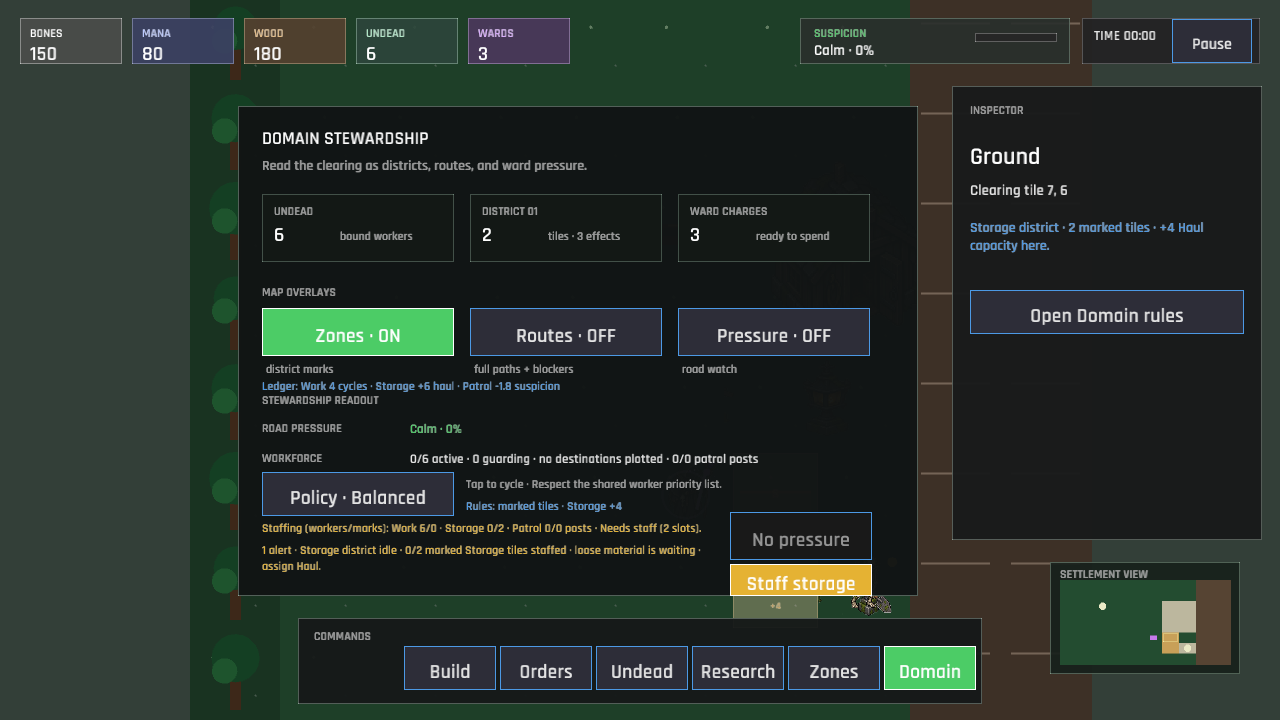
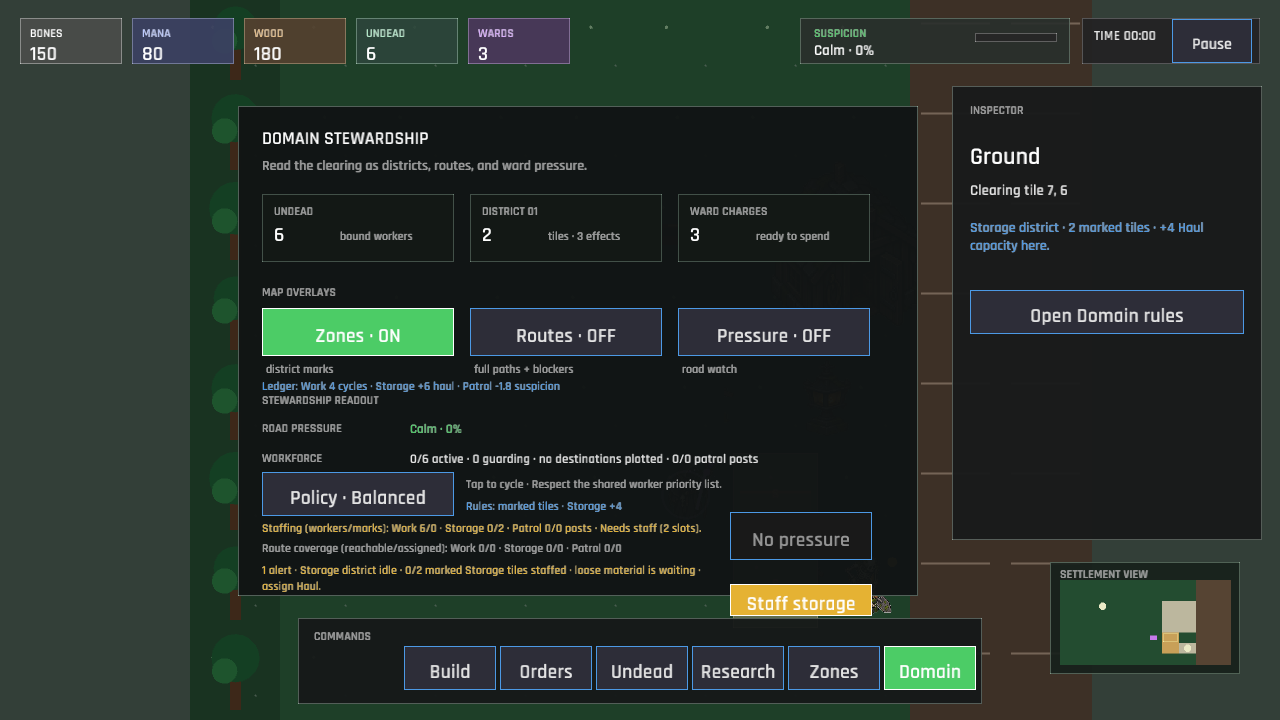
The wardens count the roads they can actually walk (route-aware service coverage)
The Domain readout now matches assigned workers to marked district slots through real route checks, using one worker per reachable slot and preserving role-specific Work demand. Desktop and compact panels expose reachable-versus-assigned coverage beside staffing pressure, while the GDD and visual plan record the deeper district system. Added route-blocked coverage tests and refreshed verification captures.

Changed region(s): [[0.1875, 0.7333, 0.6875, 0.8556]]

diff --git a/src/engine/districts.rs b/src/engine/districts.rs
@@ -1,6 +1,7 @@
 //! Domain Stewardship rules applied by marked district tiles.
 
 use crate::data::DistrictRules;
+use crate::engine::navigation;
 use crate::state::{
     DistrictActivity, DistrictActivityKind, GameSession, JobKind, PlotStatus, Technology, ZoneKind,
 };
@@ -109,6 +110,75 @@ pub fn compact_operations_summary(session: &GameSession) -> String {
         operator_count(session, ZoneKind::Patrol),
         marked_tile_count(session, ZoneKind::Patrol),
         suffix
+    )
+}
+
+#[derive(Debug, Clone, Copy, PartialEq, Eq)]
+pub struct DistrictCoverage {
+    pub marked: usize,
+    pub assigned: usize,
+    pub reachable: usize,
+}
+
+pub fn service_coverage(session: &GameSession, kind: ZoneKind) -> DistrictCoverage {
+    let targets = district_tiles(session, kind);
+    if targets.is_empty() {
+        return DistrictCoverage {
+            marked: 0,
+            assigned: 0,
+            reachable: 0,
+        };
+    }
+    let mut matched_workers = vec![None; targets.len()];
+    for worker_index in 0..session.workforce.workers.len() {
+        let mut visited = vec![false; targets.len()];
+        let _ = match_reachable_worker(
+            session,
+            kind,
+            worker_index,
+            &targets,
+            &mut matched_workers,
+            &mut visited,
+        );
+    }
+    let reachable = matched_workers
+        .iter()
+        .filter(|worker| worker.is_some())
+        .count();
+    DistrictCoverage {
+        marked: targets.len(),
+        assigned: operator_count(session, kind),
+        reachable,
+    }
+}
+
+pub fn coverage_summary(session: &GameSession) -> String {
+    let work = service_coverage(session, ZoneKind::Work);
+    let storage = service_coverage(session, ZoneKind::Storage);
+    let patrol = service_coverage(session, ZoneKind::Patrol);
+    format!(
+        "Route coverage (reachable/assigned): Work {}/{} · Storage {}/{} · Patrol {}/{}",
+        work.reachable,
+        work.assigned,
+        storage.reachable,
+        storage.assigned,
+        patrol.reachable,
+        patrol.assigned
+    )
+}
+
+pub fn compact_coverage_summary(session: &GameSession) -> String {
+    let work = service_coverage(session, ZoneKind::Work);
+    let storage = service_coverage(session, ZoneKind::Storage);
+    let patrol = service_coverage(session, ZoneKind::Patrol);
+    format!(
+        "Routes: W {}/{} · S {}/{} · P {}/{}",
+        work.reachable,
+        work.assigned,
+        storage.reachable,
+        storage.assigned,
+        patrol.reachable,
+        patrol.assigned
     )
 }
 
@@ -437,6 +507,73 @@ fn assigned_operator_count(session: &GameSession, kind: ZoneKind) -> usize {
             ZoneKind::Patrol => worker.assignment == JobKind::Guard,
         })
         .count()
+}
+
+fn district_tiles(session: &GameSession, kind: ZoneKind) -> Vec<TilePos> {
+    session
+        .world
+        .zones
+        .iter()
+        .filter(|zone| zone.kind == kind)
+        .flat_map(|zone| zone.tiles.iter().copied())
+        .collect()
+}
+
+fn match_reachable_worker(
+    session: &GameSession,
+    kind: ZoneKind,
+    worker_index: usize,
+    targets: &[TilePos],
+    matched_workers: &mut [Option<usize>],
+    visited: &mut [bool],
+) -> bool {
+    let worker = &session.workforce.workers[worker_index];
+    for (target_index, target) in targets.iter().enumerate() {
+        if visited[target_index]
+            || !worker_serves_tile(session, kind, worker.assignment, *target)
+            || navigation::plan_route(session, worker.position, *target).is_err()
+        {
+            continue;
+        }
+        visited[target_index] = true;
+        if matched_workers[target_index].is_none()
+            || match_reachable_worker(
+                session,
+                kind,
+                matched_workers[target_index].expect("checked matched worker"),
+                targets,
+                matched_workers,
+                visited,
+            )
+        {
+            matched_workers[target_index] = Some(worker_index);
+            return true;
+        }
+    }
+    false
+}
+
+fn worker_serves_tile(session: &GameSession, kind: ZoneKind, job: JobKind, tile: TilePos) -> bool {
+    match kind {
+        ZoneKind::Work => work_role_for_tile(session, tile)
+            .map_or(matches!(job, JobKind::Dig | JobKind::Wood), |required| {
+                job == required
+            }),
+        ZoneKind::Storage => job == JobKind::Haul,
+        ZoneKind::Patrol => job == JobKind::Guard,
+    }
+}
+
+fn work_role_for_tile(session: &GameSession, tile: TilePos) -> Option<JobKind> {
+    if session.world.plots.iter().any(|plot| {
+        plot.position == tile && matches!(plot.status, PlotStatus::Ready | PlotStatus::Digging)
+    }) {
+        Some(JobKind::Dig)
+    } else if session.world.forest_tiles.contains(&tile) {
+        Some(JobKind::Wood)
+    } else {
+        None
+    }
 }
 
 fn job_operator_count(session: &GameSession, job: JobKind) -> usize {

diff --git a/src/ui/responsive/panels.rs b/src/ui/responsive/panels.rs
@@ -398,6 +398,21 @@ fn draw_compact_domain_panel(
             dark::TEXT_DIM
         },
     );
+    let coverage_summary = if sheet.w < 520.0 {
+        districts::compact_coverage_summary(ctx.session)
+    } else {
+        districts::coverage_summary(ctx.session)
+    };
+    draw_text_block(
+        &coverage_summary,
+        sheet.x + 16.0,
+        sheet.y + 212.0,
+        sheet.w - 32.0,
+        18.0,
+        11.0,
+        0.0,
+        dark::TEXT_DIM,
+    );
     let (clear_routes, total_routes) = super::super::world_feedback::route_counts(ctx);
     let patrol_coverage = crate::engine::jobs::patrol_coverage(ctx.session);
     let route_summary = if total_routes == 0 {
@@ -414,7 +429,7 @@ fn draw_compact_domain_panel(
     draw_text_block(
         &route_summary,
         sheet.x + 16.0,
-        sheet.y + 212.0,
+        sheet.y + 232.0,
         sheet.w - 32.0,
         16.0,
         11.0,
@@ -428,7 +443,7 @@ fn draw_compact_domain_panel(
         },
     );
     if virtual_button(
-        Rect::new(sheet.x + 16.0, sheet.y + 232.0, sheet.w - 32.0, 44.0),
+        Rect::new(sheet.x + 16.0, sheet.y + 252.0, sheet.w - 32.0, 44.0),
         super::compact_policy_label(ctx.session.stewardship_policy),
         ctx.session.phase == GamePhase::Playing,
         ButtonTone::Secondary,
@@ -437,7 +452,7 @@ fn draw_compact_domain_panel(
         actions.push(UiAction::CycleStewardshipPolicy);
     }
     if virtual_button(
-        Rect::new(sheet.x + 16.0, sheet.y + 280.0, sheet.w - 32.0, 44.0),
+        Rect::new(sheet.x + 16.0, sheet.y + 300.0, sheet.w - 32.0, 44.0),
         "Quiet ward · -8 suspicion",
         ctx.session.phase == GamePhase::Playing
             && ctx.session.economy.ward_charges > 0
@@ -464,7 +479,7 @@ fn draw_compact_domain_panel(
         };
         let action = compact_advisory_action(ctx, target);
         if virtual_button(
-            Rect::new(sheet.x + 16.0, sheet.y + 328.0, sheet.w - 32.0, 44.0),
+            Rect::new(sheet.x + 16.0, sheet.y + 348.0, sheet.w - 32.0, 44.0),
             compact_advisory_label(alert.title),
             true,
             ButtonTone::Warning,

diff --git a/src/engine/districts/tests.rs b/src/engine/districts/tests.rs
@@ -1,5 +1,5 @@
 use super::*;
-use crate::state::{StewardshipPolicy, WorldState};
+use crate::state::{Building, BuildingKind, StewardshipPolicy, WorldState};
 
 #[test]
 fn district_rules_wait_for_domain_stewardship() {
@@ -171,6 +171,47 @@ fn work_staffing_matches_workers_to_the_marked_role() {
 
     assert_eq!(operator_count(&session, ZoneKind::Work), 1);
     assert_eq!(staffing_gap(&session, ZoneKind::Work), 0);
+}
+
+#[test]
+fn service_coverage_separates_assignment_from_route_access() {
+    let data = crate::data::GameData::load().unwrap();
+    let mut session = GameSession::new(&data.config);
+    session.research.completed = vec![Technology::DomainStewardship];
+    session.world.zones.push(crate::state::Zone {
+        kind: ZoneKind::Storage,
+        tiles: vec![WorldState::stockpile_position()],
+    });
+    session.workforce.workers[0].assignment = JobKind::Haul;
+
+    assert_eq!(
+        service_coverage(&session, ZoneKind::Storage),
+        DistrictCoverage {
+            marked: 1,
+            assigned: 1,
+            reachable: 1,
+        }
+    );
+
+    for y in 0..session.world.height as i32 {
+        session.world.buildings.push(Building {
+            kind: BuildingKind::WorkShed,
+            progress: 10.0,
+            complete: true,
+            position: TilePos::new(3, y),
+            width: 1,
+            height: 1,
+        });
+    }
+
+    assert_eq!(
+        service_coverage(&session, ZoneKind::Storage),
+        DistrictCoverage {
+            marked: 1,
+            assigned: 1,
+            reachable: 0,
+        }
+    );
 }
 
 #[test]

diff --git a/src/ui/domain.rs b/src/ui/domain.rs
@@ -329,6 +329,16 @@ fn draw_stewardship_readout(
             dark::TEXT_DIM
         },
     );
+    draw_text_block(
+        &districts::coverage_summary(ctx.session),
+        rect.x + 24.0,
+        rect.y + 434.0,
+        440.0,
+        18.0,
+        11.0,
+        0.0,
+        dark::TEXT_DIM,
+    );
 
     let operational = alerts::collect(ctx.session, ctx.data);
     let detail = operational.first().map_or_else(
@@ -343,7 +353,7 @@ fn draw_stewardship_readout(
             detail
         ),
         rect.x + 24.0,
-        rect.y + 436.0,
+        rect.y + 456.0,
         440.0,
         38.0,
         12.0,
@@ -376,7 +386,7 @@ fn draw_stewardship_readout(
     }
     if let Some(alert) = operational.first().and_then(|alert| alert.target) {
         if virtual_button(
-            Rect::new(rect.x + 492.0, rect.y + 458.0, 142.0, 32.0),
+            Rect::new(rect.x + 492.0, rect.y + 478.0, 142.0, 32.0),
             alert_button_label(operational.first().map(|alert| alert.title)),
             true,
             ButtonTone::Warning,

diff --git a/docs/visual-direction-and-ui-plan.md b/docs/visual-direction-and-ui-plan.md
@@ -111,17 +111,17 @@ Do not add conventional food and housing needs automatically. If later design re
 
 ## Current prototype and remaining direction
 
-The current game has a 10 × 8 world, six authored grave positions, one starting skeleton, three building types, jobs, repeat priorities, corpse qualities, suspicion events, versioned save support, a selectable necromancer, positioned buildings, four research technologies, editable work areas, deterministic worker routing, route-aware Work/Storage/Patrol destinations, stable multi-post patrol coverage, reachable patrol coverage accounting, aggregated storage and patrol districts, an Ossuary Kiln production recipe with a three-cycle queue, a district overview with a stateful minimap, actionable operational alerts with a seven-entry History drawer, Domain Stewardship overlays for zones, worker routes, and road pressure, persistent Balanced, Secure, and Harvest policies for automated workers, policy-aware Harvest district prioritization after Domain Stewardship, location-aware Work/Storage/Patrol district rules that affect workers operating on marked tiles after Domain Stewardship, capacity-aware district staffing demand, actionable Work and Storage district staffing advisories, a marked-tile district inspector, a save-persistent district performance ledger with first-use Field Notes and a bounded recent activity trail, a Domain staffing summary for Work, Storage, and Patrol, and touch camera pan/pinch with visible zoom and recenter controls on compact viewports. The sprite sheet is registered through the texture manifest and falls back to an obvious placeholder when unavailable. The current victory condition ends the slice after the small cemetery is established; deeper district simulation remains future work.
+The current game has a 10 × 8 world, six authored grave positions, one starting skeleton, three building types, jobs, repeat priorities, corpse qualities, suspicion events, versioned save support, a selectable necromancer, positioned buildings, four research technologies, editable work areas, deterministic worker routing, route-aware Work/Storage/Patrol destinations, stable multi-post patrol coverage, reachable patrol coverage accounting, aggregated storage and patrol districts, an Ossuary Kiln production recipe with a three-cycle queue, a district overview with a stateful minimap, actionable operational alerts with a seven-entry History drawer, Domain Stewardship overlays for zones, worker routes, and road pressure, persistent Balanced, Secure, and Harvest policies for automated workers, policy-aware Harvest district prioritization after Domain Stewardship, location-aware Work/Storage/Patrol district rules that affect workers operating on marked tiles after Domain Stewardship, capacity-aware district staffing demand, actionable Work and Storage district staffing advisories, a marked-tile district inspector, a save-persistent district performance ledger with first-use Field Notes and a bounded recent activity trail, a Domain staffing summary for Work, Storage, and Patrol, route-aware district service coverage that separates assigned hands from reachable hands, and touch camera pan/pinch with visible zoom and recenter controls on compact viewports. The sprite sheet is registered through the texture manifest and falls back to an obvious placeholder when unavailable. The current victory condition ends the slice after the small cemetery is established; deeper economy and multi-district route policies remain future work.
 
 | Implemented foundation | Remaining direction |
 | --- | --- |
 | `src/ui.rs`, `src/ui/panels.rs`, `src/ui/responsive.rs`: world-first HUD, desktop panels, compact bottom sheet, and field-notes archive | Continue accessibility and large-text verification |
-| `src/ui/world.rs`, `src/ui/world_feedback.rs`, and `src/ui/animation.rs`: full-world grid, actor interpolation, animation, complete route previews, and source feedback | Deeper district simulation and multi-district route policies |
+| `src/ui/world.rs`, `src/ui/world_feedback.rs`, and `src/ui/animation.rs`: full-world grid, actor interpolation, animation, complete route previews, and source feedback | Deeper economy and multi-district route policies |
 | `src/ui/components.rs`: title page, phase overlays, and grid picking | Keep the game name on the title page only |
 | `src/main.rs`: neutral native window caption | Add touch camera gestures if the world outgrows one viewport |
 | `src/game.rs`: camera, touch gestures, input, captures, and action dispatch | Expand the persistent colony model without resetting existing saves |
 | `src/state.rs`: positioned buildings, research, zones, movement destinations, carried resources, and save migration | Extend stewardship policies beyond district-aware worker priorities |
-| `src/engine/progression.rs`, `src/engine/alerts.rs`, `src/engine/districts.rs`: research-driven capabilities, milestone, blockers, and district rules | Extend stewardship policies beyond district-aware worker priorities |
+| `src/engine/progression.rs`, `src/engine/alerts.rs`, `src/engine/districts.rs`: research-driven capabilities, milestone, blockers, district rules, and route-aware service coverage | Extend stewardship policies beyond district-aware worker priorities |
 | `assets/data/texture_manifest.json` and asset registry | Add later terrain, props, effects, and HUD assets as they become playable |
 
 Keep simulation independent of camera zoom and panel visibility. UI should read a shared capability model derived from research; the simulation must validate those same capabilities when accepting orders. Do not implement technology progression only by hiding buttons.
@@ -135,7 +135,7 @@ Existing saves already receive deterministic defaults for positioned buildings, 
 3. **First research transition (implemented for the slice).** Binding Routines and the research chain gate repeat priorities, placement, work areas, logistics, and domain controls. Versioned saves preserve the new state with deterministic defaults.
 4. **Movement and animation readability (implemented).** Workers visibly walk tile by tile, hauling has a real carried-resource phase, jobs expose procedural tool motion, and the necromancer walks, retargets, cancels, and pulses while ritualizing.
 5. **First colony slice (implemented for the current slice).** The Ossuary Kiln completes a material → construction → production chain after Ossuary Logistics, workers route around basic obstructions before working, and painted Work, Storage, and Patrol areas select nearby destinations. The minimap and worker/grave cues provide first-pass domain feedback while keeping the original cemetery recognizable as part of the expanded settlement.
-6. **Scale and domain controls (implemented for the current slice).** The settlement overview includes useful operational alerts with source selection, Domain Stewardship controls for district marks, worker routes, and road-pressure coverage, actionable Work and Storage district staffing guidance, marked-tile rule inspection, persistent Balanced, Secure, and Harvest policies that affect automated worker choices, Harvest fill marked district gaps after Domain Stewardship, capacity-aware staffing slots that remain visible until concurrent district demand is met, additive Work, Storage, and Patrol rules that make marked districts operationally meaningful, a save-persistent performance ledger with a bounded activity trail that records their real contribution, and a compact staffing summary that compares district operators with marked Patrol posts. Future work can add deeper district simulation while validating worker selection and performance before growing the content set.
+6. **Scale and domain controls (implemented for the current slice).** The settlement overview includes useful operational alerts with source selection, Domain Stewardship controls for district marks, worker routes, and road-pressure coverage, actionable Work and Storage district staffing guidance, marked-tile rule inspection, persistent Balanced, Secure, and Harvest policies that affect automated worker choices, Harvest fill marked district gaps after Domain Stewardship, capacity-aware staffing slots that remain visible until concurrent district demand is met, route-aware service coverage that separates assignment gaps from blocked paths, additive Work, Storage, and Patrol rules that make marked districts operationally meaningful, a save-persistent performance ledger with a bounded activity trail that records their real contribution, and a compact staffing summary that compares district operators with marked Patrol posts. Future work can add deeper economy and multi-district route policies while validating worker selection and performance before growing the content set.
 7. **Responsive command surface (implemented for the current slice).** Compact viewports use a full-window logical canvas, preserve the world above a bottom sheet, and expose the same touch-first actions for selection, management, events, pause, placement recovery, and field notes. Verification captures include the 800 × 600 composition and a 360 × 640 narrow-navigation stress state.
 8. **Touch camera navigation (implemented for the current slice).** Compact viewports provide visible zoom and recenter controls plus gesture-aware map pan and pinch zoom. Claimed map gestures suppress accidental selection and command activation when the contact ends.
 

diff --git a/gdd.md b/gdd.md
@@ -147,8 +147,10 @@ empty activity trail without losing their existing ledger values.
 The Domain readout also reports current staffing by district: Work operators,
 Storage haulers, and Patrol guards compared with the number of marked tiles or
 posts. Each marked tile is a concurrent staffing slot, so an underfilled
-district stays visible until its demand is met; a player can see coverage
-pressure before opening a separate board.
+district stays visible until its demand is met. A separate route-coverage line
+matches reachable workers to marked slots, exposing the difference between a
+missing order and a path blocked by structures before the player opens another
+board.
 
 ### 5.4 Determinism and saves
 
@@ -224,10 +226,11 @@ pressure independently readable on the same world-first map. A blocker can be
 located from the readout, while **Quiet ward** remains a visible response when
 charges and suspicion make it applicable. A touch-sized policy control cycles
 between Balanced, Secure, and Harvest and states each policy's effect.
-The readout pairs its rule and ledger lines with a compact staffing summary for
-Work, Storage, and Patrol, keeping each district's current demand visible beside
-the policy and pressure controls. Underfilled Storage becomes a locateable
-**Staff storage** action when loose material is waiting.
+The readout pairs its rule, ledger, staffing, and route-coverage lines for Work,
+Storage, and Patrol, keeping each district's current demand visible beside the
+policy and pressure controls. Underfilled Storage becomes a locateable **Staff
+storage** action when loose material is waiting, while route coverage shows
+whether assigned hands can actually reach their marked slots.
 
 ## 8. Toolkit mapping
 
@@ -252,7 +255,8 @@ simulation tiles, and procedural animation makes digging, hauling, gathering,
 construction, guarding, refining, walking, and ritual focus readable. Domain
 Stewardship now surfaces a compact district overview, actionable operational
 alerts, toggleable zone, route, and pressure overlays, capacity-aware staffing
-demand, and small bonuses for marked district rules. Responsive layouts now
+demand, route-aware district coverage, and small bonuses for marked district
+rules. Responsive layouts now
 preserve those interactions at smaller viewport sizes with a reduced world area
 and touch-sized bottom sheet.
 
